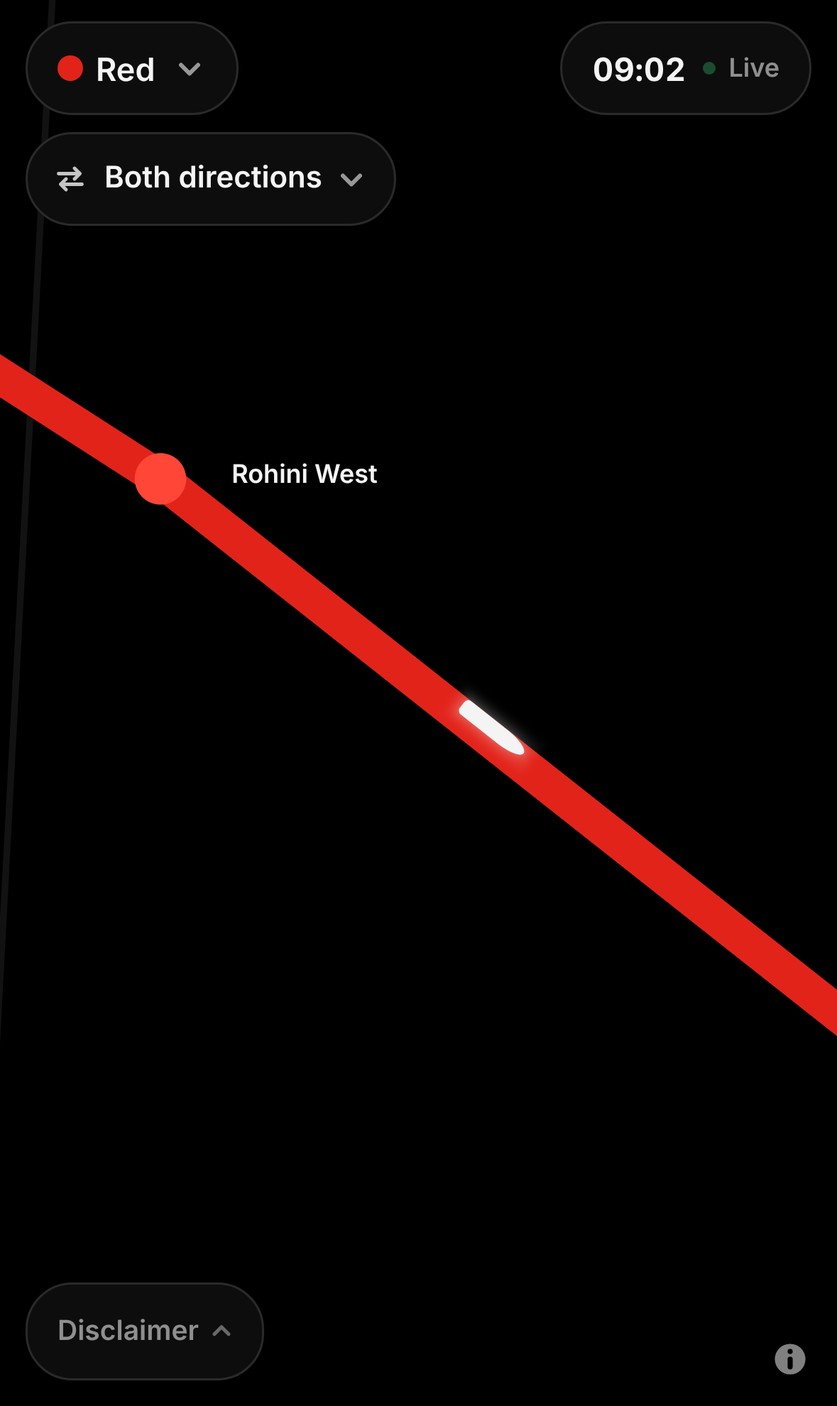
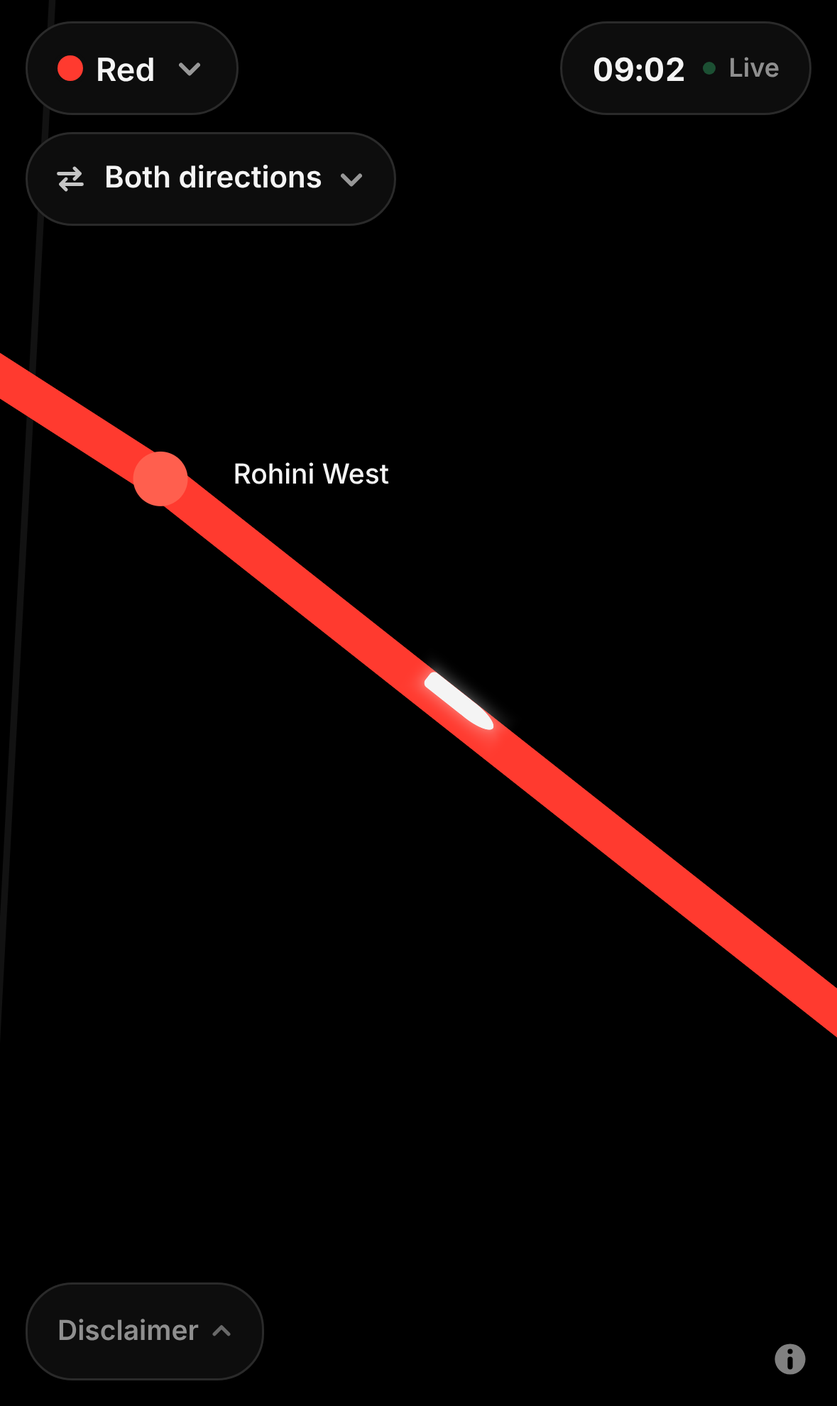
Maptro 1.4, the zoom update: vivid lines, sizes and detail that follow zoom
- Line colours pushed to full vividness for true black.
- Track width comes from zoom: a hairline for the whole city, a broad band close up; stations and trains scale with it.
- Zoomed out with several lines, trains hide and a quiet note says to zoom in or pick a line; ordinary stations fade out too.
- Station names are lighter (500/600), sized by zoom, and fade in.
- DESIGN.md and screenshots updated.

Claude-Session: https://claude.ai/code/session_01A61iRbreszi51h9E33xExZ

Changed region(s): [[0.0, 0.2465, 1.0, 0.7394], [0.0611, 0.0308, 0.0916, 0.0616]]

diff --git a/index.html b/index.html
@@ -82,6 +82,12 @@ button{font:inherit;color:inherit;background:none;border:0;padding:0;cursor:poin
 #pop.off{opacity:0;transform:translate(-50%,-8px) scale(.96);transition:opacity 420ms var(--settle),transform 420ms var(--settle)}
 body.dir #pop{top:calc(var(--sat) + 114px)}
 #pop .dots i{box-shadow:0 0 0 2px var(--surface)}
+/* zoomed out, trains hide; a quiet hint in the same place says how to bring them back */
+#nudge{position:fixed;z-index:3;top:calc(var(--sat) + 66px);left:50%;height:30px;border-radius:15px;padding:0 13px;display:flex;align-items:center;
+  font-size:13px;font-weight:500;color:var(--muted);white-space:nowrap;pointer-events:none;
+  transform:translate(-50%,0);transition:opacity 420ms var(--settle),transform 420ms var(--settle)}
+#nudge.off{opacity:0;transform:translate(-50%,-6px)}
+body.dir #nudge{top:calc(var(--sat) + 116px)}
 #clock .t{font-weight:650;letter-spacing:.2px}
 #clock .s{font-size:12px;font-weight:600;color:var(--muted);display:flex;align-items:center;gap:6px}
 #clock .s::before{content:"";width:6px;height:6px;border-radius:50%;background:var(--live);animation:pulse 2s ease-in-out infinite}
@@ -172,6 +178,7 @@ body.carded #disc{opacity:0;pointer-events:none}
   </span><select id="dsel" class="hx" aria-label="Direction"></select></span>
 </div>
 <div id="pop" class="panel off" aria-live="polite"><span class="dots" id="popd"></span><span id="popt"></span></div>
+<div id="nudge" class="panel off" aria-live="polite">Zoom in or pick a line to see trains</div>
 
 <div id="menu" class="panel" aria-label="Choose lines" hidden>
   <div class="mhead"><span>Lines</span><span class="ac"><span class="hw"><button id="all" class="press">All</button></span><span class="hw"><button id="none" class="press">None</button></span></span></div>
@@ -325,7 +332,10 @@ const DPR = () => Math.min(window.devicePixelRatio || 1, 3);
 const ORDER = ['RED','YELLOW','BLUE','GREEN','VIOLET','PINK','MAGENTA','GRAY','ORANGE/AIRPORT','AQUA','RAPID'];
 const NAMES = {RED:'Red',YELLOW:'Yellow',BLUE:'Blue',GREEN:'Green',VIOLET:'Violet',PINK:'Pink',MAGENTA:'Magenta',GRAY:'Grey','ORANGE/AIRPORT':'Airport Express',AQUA:'Aqua',RAPID:'Rapid Metro'};
 // Line colours, nudged brighter where DMRC's own read too dark on a night map.
-const SHOW = {BLUE:'#2f86f0',VIOLET:'#a05bd0',MAGENTA:'#e0329f',GRAY:'#a7adb5',RAPID:'#5aa0ec',GREEN:'#33b34f'};
+// Each line in its DMRC hue, pushed to full vividness so it glows on true black (1.4). Pink stays light and Magenta deep,
+// and Rapid Metro a paler sky blue than the Blue Line, so neighbours never read as one line.
+const SHOW = {RED:'#ff3a2f',YELLOW:'#ffd60a',BLUE:'#3388ff',GREEN:'#2fd45c',VIOLET:'#b25cff',PINK:'#ff6fbd',MAGENTA:'#f0179c',
+  GRAY:'#b9c0c9',AQUA:'#12e2f2','ORANGE/AIRPORT':'#ff8a12',RAPID:'#6cbcff'};
 const DEFAULT = ['ORANGE/AIRPORT'];
 const LINES_KEY = 'maptro-lines-v2'; // v2: the default became the Airport Express, so earlier saved picks start fresh
 const INK = [.957, .957, .957]; // --ink, the picked train
@@ -423,8 +433,8 @@ void main(){
 const PT_FS = `precision highp float;varying vec4 v_col;varying float v_kind,v_px,v_sz;varying vec2 v_dir;
 uniform float u_tw,u_gap,u_st,u_fade;
 void main(){vec2 p=vec2(gl_PointCoord.x*2.-1.,1.-gl_PointCoord.y*2.);float r=length(p)*v_px*.5;
-  if(v_kind>.5&&v_kind<1.5){gl_FragColor=vec4(v_col.rgb,1.)*clamp(u_st*.5-r+.5,0.,1.)*v_col.a;return;}
-  if(v_kind>2.5){gl_FragColor=vec4(v_col.rgb,1.)*clamp(u_st*.3*v_sz-r+.5,0.,1.)*v_col.a;return;}
+  if(v_kind>.5&&v_kind<1.5){gl_FragColor=vec4(v_col.rgb,1.)*clamp(u_st*.5-r+.5,0.,1.)*v_col.a*u_fade;return;}
+  if(v_kind>2.5){gl_FragColor=vec4(v_col.rgb,1.)*clamp(u_st*.3*v_sz-r+.5,0.,1.)*v_col.a*u_fade;return;}
   float d=r-u_tw*.85*v_sz;
   if(v_kind>1.5){float a=clamp(1.-abs(d-u_gap*2.5)/(u_gap*.9),0.,1.);gl_FragColor=vec4(1.)*a*v_col.a*u_fade;return;}
   float edge=(1.-max(abs(p.x),abs(p.y)))*v_px*.5,glow=.26*exp(-max(d,0.)/(u_tw*.38))*smoothstep(0.,u_tw*.9,edge);
@@ -479,18 +489,26 @@ function polyline(V, I, pts, rgba, fade) { // pts: [[x,y,f?]] in relative Mercat
   for (let i = 0; i < n - 1; i++) { const k = base + i * 2; I.push(k, k + 1, k + 2, k + 1, k + 3, k + 2); }
 }
 
-// One unit, u, the width of a train, sets everything (CSS px). The track is two trains wide with a gap of g between
-// them. A station is a dot that takes the whole track and a little more, so a train arriving disappears into it.
-const ICON_Z = 12.4; // zoomed in from here trains are drawn as trains; zoomed out, as dots. Never anything between.
+// Everything grows with zoom (1.4). The track's width is set by zoom from the table below: a hairline when the whole
+// city is on screen, a broad band close up. One unit, u, the width of a train, is the track's half: the track is two
+// trains wide with a gap of g between them. A station is a dot that takes the whole track and a little more, so a
+// train arriving disappears into it.
+const ICON_Z = 12.8; // zoomed in from here trains are drawn as trains; zoomed out, as dots. Never anything between.
+const TRAIN_Z = 11.2; // zoomed out past this, with more than one line chosen, only the track shows (DESIGN.md, Zoom)
+const MINOR_Z = [10.7, 11.3]; // with more than one line chosen, ordinary stations fade in over these zooms
+const TRACK_W = [[8.5, 1.5], [10, 2.3], [11, 3.3], [12, 5.6], [13, 8.8], [14, 13], [15, 18], [16.5, 28]]; // [zoom, px]
+const ramp = (x, a, b) => Math.max(0, Math.min(1, (x - a) / (b - a)));
 function sizes(z) {
-  const u = Math.max(3, Math.min(8, 2.6 + (z - 10) * 1.2)), g = Math.max(.75, u * .12);
-  const band = 2 * u + g, lane = (u + g) / 2, tl = u * 4.6, st = band + u * .9;
-  return { u, tw: u, tl, g, band, lane, rad: u * .3, st };
+  let band = TRACK_W[TRACK_W.length - 1][1];
+  for (let i = 1; i < TRACK_W.length; i++) { const [z0, w0] = TRACK_W[i - 1], [z1, w1] = TRACK_W[i]; if (z <= z1) { band = w0 + (w1 - w0) * ramp(z, z0, z1); break; } }
+  const u = band / 2.12, g = u * .12, lane = (u + g) / 2, tl = u * 4.6, st = band + Math.max(u * .9, 1.8);
+  // a train dot keeps a size you can see and tap even where the track is thin
+  return { u, tw: u, tl, g, band, lane, rad: u * .3, st, dot: Math.max(u, 3.2) };
 }
 // CSS px per metre on the map at zoom z (512 px world tiles; Delhi's latitude)
 const pxPerM = z => 512 * 2 ** z / (40075016.7 * Math.cos(28.6 * Math.PI / 180));
 function makeGpu() {
-  const g = { lineV: new Buf(Float32Array), lineI: new Buf(Uint16Array), stV: new Buf(Float32Array),
+  const g = { lineV: new Buf(Float32Array), lineI: new Buf(Uint16Array), stV: new Buf(Float32Array), stMinorV: new Buf(Float32Array), vis: 1, visT: 1,
     headV: new Buf(Float32Array), fxV: new Buf(Float32Array), occV: new Buf(Float32Array),
     trV: new Buf(Float32Array), trI: new Buf(Uint16Array), pickV: new Buf(Float32Array), pickI: new Buf(Uint16Array), icon: 0, iconT: 0, lastT: 0,
     staticDirty: true, gl: null };
@@ -506,7 +524,7 @@ function makeGpu() {
     g.line = prog(LINE_VS, LINE_FS, ['a_pos', 'a_prev', 'a_next', 'a_side', 'a_col']);
     g.pt = prog(PT_VS, PT_FS, ['a_pos', 'a_dir', 'a_col', 'a_size', 'a_kind']);
     g.tr = prog(TR_VS, TR_FS, ['a_pos', 'a_prev', 'a_next', 'a_side', 'a_x', 'a_len']);
-    g.b = {}; for (const k of ['lineV', 'lineI', 'stV', 'headV', 'fxV', 'occV', 'trV', 'trI', 'pickV', 'pickI']) g.b[k] = gl.createBuffer();
+    g.b = {}; for (const k of ['lineV', 'lineI', 'stV', 'stMinorV', 'headV', 'fxV', 'occV', 'trV', 'trI', 'pickV', 'pickI']) g.b[k] = gl.createBuffer();
     g.isGL2 = typeof WebGL2RenderingContext !== 'undefined' && gl instanceof WebGL2RenderingContext;
     g.vao = g.isGL2 ? null : gl.getExtension('OES_vertex_array_object');
     g.minmax = g.isGL2 ? gl.MAX : (gl.getExtension('EXT_blend_minmax') || {}).MAX_EXT;
@@ -528,7 +546,7 @@ function makeGpu() {
     const res = [gl.drawingBufferWidth, gl.drawingBufferHeight], dpr = view.dpr, z = view.zoom, S = sizes(z);
     const tw = S.u * dpr, tl = S.tl * dpr, trackW = S.band * dpr, off = S.lane * dpr;
     if (g.staticDirty) { upload(gl, gl.ARRAY_BUFFER, g.b.lineV, g.lineV.view(), gl.STATIC_DRAW); upload(gl, gl.ELEMENT_ARRAY_BUFFER, g.b.lineI, g.lineI.view(), gl.STATIC_DRAW);
-      upload(gl, gl.ARRAY_BUFFER, g.b.stV, g.stV.view(), gl.STATIC_DRAW); g.staticDirty = false; }
+      upload(gl, gl.ARRAY_BUFFER, g.b.stV, g.stV.view(), gl.STATIC_DRAW); upload(gl, gl.ARRAY_BUFFER, g.b.stMinorV, g.stMinorV.view(), gl.STATIC_DRAW); g.staticDirty = false; }
     gl.blendEquation(gl.FUNC_ADD); gl.blendFunc(gl.ONE, gl.ONE_MINUS_SRC_ALPHA);
     // track: the line's own colour, solid, one rail per direction
     const L = g.line; gl.useProgram(L.p); gl.uniformMatrix4fv(L.u.u_m, false, M); gl.uniform2fv(L.u.u_res, res);
@@ -542,7 +560,13 @@ function makeGpu() {
     if (z > ICON_Z + .1) g.iconT = 1; else if (z < ICON_Z - .1) g.iconT = 0;
     g.icon = RM.matches ? g.iconT : g.icon + Math.sign(g.iconT - g.icon) * Math.min(Math.abs(g.iconT - g.icon), dt / 200);
     const fade = g.icon * g.icon * (3 - 2 * g.icon);
-    const P = g.pt, T = g.tr, pts = (buf, data, scale, o, pad, kind) => { if (!data.n) return; gl.bindBuffer(gl.ARRAY_BUFFER, buf); if (data !== g.stV) gl.bufferData(gl.ARRAY_BUFFER, data.view(), gl.DYNAMIC_DRAW);
+    // Zoomed out with several lines, trains go and only the track shows; they fade back in 250 ms as you zoom in.
+    // With one line chosen they always show. A little give either side of TRAIN_Z stops a resting pinch flickering.
+    const one = sel.size === 1;
+    if (one || z > TRAIN_Z + .1) g.visT = 1; else if (z < TRAIN_Z - .1) g.visT = 0;
+    g.vis = RM.matches ? g.visT : g.vis + Math.sign(g.visT - g.vis) * Math.min(Math.abs(g.visT - g.vis), dt / 250);
+    const vis = g.vis * g.vis * (3 - 2 * g.vis), minorA = one ? 1 : ramp(z, MINOR_Z[0], MINOR_Z[1]), dotW = S.dot * dpr;
+    const P = g.pt, T = g.tr, pts = (buf, data, scale, o, pad, kind) => { if (!data.n) return; gl.bindBuffer(gl.ARRAY_BUFFER, buf); if (data !== g.stV && data !== g.stMinorV) gl.bufferData(gl.ARRAY_BUFFER, data.view(), gl.DYNAMIC_DRAW);
       bindAttrs(gl, PT_LAYOUT, 10); gl.uniform1f(P.u.u_scale, scale * dpr); gl.uniform1f(P.u.u_off, o); gl.uniform1f(P.u.u_pad, pad); gl.drawArrays(gl.POINTS, 0, data.n / 10); };
     const strip = (V, I, ring, a) => { if (!I.n || a <= 0) return; gl.useProgram(T.p); gl.uniformMatrix4fv(T.u.u_m, false, M); gl.uniform2fv(T.u.u_res, res);
       upload(gl, gl.ARRAY_BUFFER, ring ? g.b.pickV : g.b.trV, V.view(), gl.DYNAMIC_DRAW); upload(gl, gl.ELEMENT_ARRAY_BUFFER, ring ? g.b.pickI : g.b.trI, I.view(), gl.DYNAMIC_DRAW);
@@ -550,17 +574,18 @@ function makeGpu() {
       gl.uniform1f(T.u.u_rad, S.rad * dpr); gl.uniform1f(T.u.u_gap, S.g * dpr); gl.uniform1f(T.u.u_ring, ring ? 1 : 0); gl.uniform1f(T.u.u_a, a);
       gl.drawElements(gl.TRIANGLES, I.n, gl.UNSIGNED_SHORT, 0); unbind(gl, 6); };
     const ptSetup = () => { gl.useProgram(P.p); gl.uniformMatrix4fv(P.u.u_m, false, M); gl.uniform2fv(P.u.u_res, res);
-      gl.uniform1f(P.u.u_tl, tw * 1.7); gl.uniform1f(P.u.u_tw, tw); gl.uniform1f(P.u.u_gap, S.g * dpr); gl.uniform1f(P.u.u_st, S.st * dpr); };
+      gl.uniform1f(P.u.u_tl, dotW * 1.7); gl.uniform1f(P.u.u_tw, dotW); gl.uniform1f(P.u.u_gap, S.g * dpr); gl.uniform1f(P.u.u_st, S.st * dpr); };
     // trains first, then the station dots over them, so a train arriving slides in under its station's dot
-    strip(g.trV, g.trI, false, fade);
+    strip(g.trV, g.trI, false, fade * vis);
     ptSetup();
-    if (fade < 1) { gl.uniform1f(P.u.u_fade, 1 - fade); pts(g.b.headV, g.headV, 1, off, tw * 1.4); }
+    if (fade < 1 && vis > 0) { gl.uniform1f(P.u.u_fade, (1 - fade) * vis); pts(g.b.headV, g.headV, 1, off, dotW * 1.4); }
+    if (minorA > 0) { gl.uniform1f(P.u.u_fade, minorA); pts(g.b.stMinorV, g.stMinorV, S.st + 2, 0, 0); }
     gl.uniform1f(P.u.u_fade, 1);
     pts(g.b.stV, g.stV, S.st + 2, 0, 0);
-    pts(g.b.occV, g.occV, S.st + 2, 0, 0);
+    if (vis > 0) { gl.uniform1f(P.u.u_fade, vis); pts(g.b.occV, g.occV, S.st + 2, 0, 0); }
     // the selection outline, on top of everything
-    if (fade > 0) { unbind(gl, 5); strip(g.pickV, g.pickI, true, fade * (g.pickA || 1)); ptSetup(); }
-    if (fade < 1) { gl.uniform1f(P.u.u_fade, 1 - fade); pts(g.b.fxV, g.fxV, 1, off, 6 * dpr); gl.uniform1f(P.u.u_fade, 1); }
+    if (fade > 0 && vis > 0) { unbind(gl, 5); strip(g.pickV, g.pickI, true, fade * vis * (g.pickA || 1)); ptSetup(); }
+    if (fade < 1 && vis > 0) { gl.uniform1f(P.u.u_fade, (1 - fade) * vis); pts(g.b.fxV, g.fxV, 1, off, 6 * dpr); gl.uniform1f(P.u.u_fade, 1); }
     unbind(gl, 5);
     gl.bindBuffer(gl.ARRAY_BUFFER, null); gl.bindBuffer(gl.ELEMENT_ARRAY_BUFFER, null);
   };
@@ -570,7 +595,7 @@ function makeGpu() {
 /* ---------- scene building ---------- */
 let stations = [], labelList = [], stationByName = new Map(); // stations on selected lines, grouped by name
 function buildStatic() {
-  const g = gpu; g.lineV.reset(); g.lineI.reset(); g.stV.reset();
+  const g = gpu; g.lineV.reset(); g.lineI.reset(); g.stV.reset(); g.stMinorV.reset();
   const ids = new Set(R.map(r => r.id));
   for (const l of ORDER) {
     if (!sel.has(l)) continue;
@@ -591,15 +616,17 @@ function buildStatic() {
   });
   stations = [...byName.values()].filter(s => s.on.size); stationByName = byName;
   // one dot per station per line, on that line's own track; white at an interchange, as on Maptro's first map
+  // Interchanges and terminals always show; ordinary stations go when zoomed out (minor buffer, faded by zoom)
   for (const { s, r, d } of plat.values()) {
     const [x, y] = posAt(r, d), c = s.lines.size > 1 ? INK : tone[r.line].platform;
-    g.stV.push(x - ORIGIN[0], y - ORIGIN[1], 0, 0, c[0], c[1], c[2], 1, 1, 1);
+    (s.lines.size > 1 || s.term ? g.stV : g.stMinorV).push(x - ORIGIN[0], y - ORIGIN[1], 0, 0, c[0], c[1], c[2], 1, 1, 1);
   }
   for (const s of stations) s.ic = s.lines.size > 1;
   for (const s of stations) {
     const ic = s.lines.size > 1;
     s.pri = (s.term ? 2 : 0) + (ic ? 1 : 0);
-    s.minZ = s.term ? 9 : ic ? 10.3 : 11.6;
+    // names come in by importance as you zoom; with one line chosen its ordinary stations are named sooner
+    s.minZ = s.term ? 9.4 : ic ? 10.6 : sel.size === 1 ? 10.4 : 11.8;
   }
   labelList = stations.slice().sort((a, b) => b.pri - a.pri);
   g.staticDirty = true; labelsDirty = true;
@@ -760,11 +787,12 @@ const lc = $('labels'), lx = lc.getContext('2d'), widths = new Map();
 function drawLabels() {
   const W = innerWidth, H = innerHeight, dpr = DPR();
   if (lc.width !== Math.round(W * dpr) || lc.height !== Math.round(H * dpr)) { lc.width = Math.round(W * dpr); lc.height = Math.round(H * dpr); }
-  lx.setTransform(dpr, 0, 0, dpr, 0, 0); lx.clearRect(0, 0, W, H);
+  lx.setTransform(dpr, 0, 0, dpr, 0, 0); lx.globalAlpha = 1; lx.clearRect(0, 0, W, H);
   const z = cam.zoom(), placed = [], r0 = sizes(z).st / 2 + 5;
   const hit = b => placed.some(q => b[0] < q[2] && b[2] > q[0] && b[1] < q[3] && b[3] > q[1]);
   // keep labels clear of the top controls
   placed.push([0, 0, W, ($('dirw').classList.contains('off') ? $('pick') : $('dir')).getBoundingClientRect().bottom + 4]);
+  if (!$('nudge').classList.contains('off')) { const n = $('nudge').getBoundingClientRect(); placed.push([n.left - 4, n.top - 4, n.right + 4, n.bottom + 4]); }
   lx.lineJoin = 'round'; lx.textBaseline = 'middle';
   // a label may not cover another interchange or terminal, so it can't read as that station's name
   const dots = labelList.map(s => cam.project(s.m[0], s.m[1]));
@@ -775,16 +803,19 @@ function drawLabels() {
     if (z < s.minZ) continue;
     const [x, y] = dots[li];
     if (x < 0 || y < 0 || x > W || y > H) continue;
-    const big = s.pri >= 2, font = `${big ? 700 : 600} ${big ? 13 : 12}px -apple-system,BlinkMacSystemFont,"SF Pro Text",system-ui,sans-serif`;
+    // Names grow with zoom, 11px far out to 13px close in (terminals 1px more), in a light weight; each fades in over
+    // half a zoom level from where it first fits, instead of popping on.
+    const big = s.pri >= 2, fs = Math.round((Math.max(11, Math.min(13, 11 + (z - 10.5) * .5)) + (big ? 1 : 0)) * 2) / 2;
+    const font = `${big ? 600 : 500} ${fs}px -apple-system,BlinkMacSystemFont,"SF Pro Text",system-ui,sans-serif`;
     lx.font = font; const key = font + s.name; let w = widths.get(key); if (w == null) widths.set(key, w = lx.measureText(s.name).width);
-    const h = big ? 16 : 15;
+    const h = fs + 3;
     const cands = [[x + r0, y - h / 2], [x - r0 - w, y - h / 2], [x - w / 2, y - r0 - h], [x - w / 2, y + r0]];
     for (const [bx, by] of cands) {
       const box = [bx - 2, by - 1, bx + w + 2, by + h + 1];
       if (box[0] < 2 || box[2] > W - 2 || hit(box) || coversDot(box, li)) continue;
       placed.push(box);
       // plain text, no halo: every name in --ink; terminals stand out by weight and size alone
-      lx.fillStyle = '#f4f4f4'; lx.fillText(s.name, bx, by + h / 2);
+      lx.globalAlpha = .4 + .6 * ramp(z, s.minZ, s.minZ + .5); lx.fillStyle = '#f4f4f4'; lx.fillText(s.name, bx, by + h / 2);
       break;
     }
   }
@@ -877,6 +908,9 @@ function paintCounts() {
   $('pick').setAttribute('aria-label', `${$('plbl').textContent}, ${tot} trains active. Choose lines`);
   // nothing running on the chosen lines: offer to skip ahead
   const empty = sel.size > 0 && tot === 0 && !picked;
+  // trains hidden by zoom: the nudge, unless the count note, the picker or a card is already saying something
+  const nudge = !gpu.visT && tot > 0 && !picked && $('menu').hidden && $('pop').classList.contains('off');
+  if (nudge === $('nudge').classList.contains('off')) { $('nudge').classList.toggle('off', !nudge); labelsDirty = true; }
   if (empty !== !$('toast').hidden) {
     $('toast').hidden = !empty;
     if (empty) $('toast').innerHTML = `<b>The trains are asleep</b><span>Service runs from about 5:30 to 23:30.</span><br><span class="hw"><button class="btn act press" id="ff">Skip to 8 am</button></span>`, haptic($('ff')), $('ff').onclick = () => { startSim(8 * 3600, 10); popPending = true; };
@@ -887,8 +921,9 @@ function paintCounts() {
 function tap(x, y) {
   if (!$('menu').hidden) return openMenu(false);
   let best = null, bd = 26;
-  for (const o of trains) { const [a, b] = cam.project(o.pos[0], o.pos[1]), d = Math.hypot(a - x, b - y); if (d < bd) { bd = d; best = { kind: 'train', r: o.r, s0: o.s0, o }; } }
-  if (!best) { bd = 20; for (const s of stations) { const [a, b] = cam.project(s.m[0], s.m[1]), d = Math.hypot(a - x, b - y); if (d < bd) { bd = d; best = { kind: 'station', s }; } } }
+  if (gpu.visT) for (const o of trains) { const [a, b] = cam.project(o.pos[0], o.pos[1]), d = Math.hypot(a - x, b - y); if (d < bd) { bd = d; best = { kind: 'train', r: o.r, s0: o.s0, o }; } }
+  const minor = sel.size === 1 || cam.zoom() > MINOR_Z[0] + .3; // a hidden station can't be tapped
+  if (!best) { bd = 20; for (const s of stations) { if (!minor && !s.ic && !s.term) continue; const [a, b] = cam.project(s.m[0], s.m[1]), d = Math.hypot(a - x, b - y); if (d < bd) { bd = d; best = { kind: 'station', s }; } } }
   if (!best) return closeCard();
   if (best.kind !== 'train') buzz();
   picked = best; setFollow(false); buildCard(); paintCard(); $('card').hidden = false; document.body.classList.add('carded');

diff --git a/DESIGN.md b/DESIGN.md
@@ -41,7 +41,7 @@ Rules:
 - Resting layers step up from black: page `--bg`, panels `--surface` with a 1px `--line` hairline, buttons and pressed rows `--surface2`.
 - State colours are few and small: the green dot beside "Live", amber when the clock runs fast, a white fill when Follow is on.
 - The primary action ("Skip to 8 am", "Tap to reload", Follow when on) is white with black text.
-- Line colours are DMRC's own, nudged brighter where they read too dark on black (`SHOW` in `index.html`). They are drawn flat: no gradients, glow, outlines or added light.
+- Line colours are DMRC's own hues, pushed to full vividness for true black in 1.4 (`SHOW` in `index.html`): Pink stays light and Magenta deep, and Rapid Metro is a paler sky blue than the Blue Line, so neighbours never read as one line. They are drawn flat: no gradients, glow, outlines or added light.
 - **Full-strength colour.** The track is each line's colour at full strength (`TONES.track` = 1), as bright as the very first Maptro; a toned-down track was tried in 1.2 and read as dull. Station dots are a step lighter (`TONES.platform` = 1.2, OKLab lightness, hue kept); interchange dots are `--ink`.
 - Trains are `--ink`, one solid colour, with a faint glow around them. They are the brightest thing on the map and the same on every line; the track under a train says which line it is.
 
@@ -72,7 +72,7 @@ The system font (`-apple-system`, SF Pro on iPhone). No web font loads: it is na
 | Minutes to next stop | 22px | 700, tabular numerals |
 | Card subtitle, departures | 14px | 400-500 |
 | Small notes ("Scheduled", Disclaimer) | 13px | 600 |
-| Station labels on the map | 12px (13px terminals) | 600 / 700, `--ink`, no halo |
+| Station labels on the map | 11px zoomed out to 13px close in (terminals 1px more) | 500 / 600, `--ink`, no halo |
 
 Numbers that change (the clock, train count, minutes) use tabular numerals so they don't jitter.
 
@@ -103,23 +103,30 @@ Shown under the line picker when exactly one line is chosen. It is a native `<se
 "19 trains active", with the line's dot: a small pill that drops in under the controls for 2.6 seconds when the page opens, the lines change (once the picker closes) or the direction changes. It replaced the number that sat in the line picker, which read as a static label. Not shown when no train is running (the quiet-hours sheet says that).
 
 ### Trains, track and stations
-Flat fills, round geometry, no outlines; the trains' faint glow is the one exception. Every size comes from one unit, `u`, a train's width (`sizes()` in `index.html`): 3px zoomed out, growing to 8px.
+Flat fills, round geometry, no outlines; the trains' faint glow is the one exception. Everything grows with zoom (1.4). The track's width comes from zoom (`TRACK_W` in `index.html`): 1.5px with all of Delhi on screen, 5.6px at zoom 12, 18px at 15 and 28px at the closest. Every other size comes from one unit, `u`, a train's width, which is the track's width / 2.12 (`sizes()`).
 
 | Part | Size |
 |---|---|
 | Track | `2u + g` (`g = .12u`): exactly two trains, one per direction, in the line's full colour |
-| Station | a dot `2u + g + .9u` across, a step lighter than its line; white at an interchange |
+| Station | a dot `2u + g` + `max(.9u, 1.8px)` across, a step lighter than its line; white at an interchange |
 | Train, zoomed in | a bullet `u` wide and `4.6u` long, solid `--ink`, faint glow |
-| Train, zoomed out | a dot `1.7u` across, solid `--ink`, faint glow |
+| Train, zoomed out | a dot `1.7 × max(u, 3.2px)` across, solid `--ink`, faint glow, so it stays visible and tappable on a thin track |
 
-- **Dot or train, never in between.** Trains are dots below zoom 12.4 (`ICON_Z`) and trains above it, with 0.1 of give either side so a pinch resting near it doesn't flicker. Crossing it cross-fades the two in 200 ms: only opacity changes, never the shape. (1.2 blended the shapes by zoom, which left a "rugby ball" in between.)
+### Zoom: show less as you pull back
+The further out, the less there is: a whole-city view is the network's shape, and detail arrives as you zoom in.
+
+- **Trains** hide below zoom 11.2 (`TRAIN_Z`, with 0.1 of give either side) when more than one line is chosen, fading out and back in over 250 ms. Then only the track shows, and a quiet note, "Zoom in or pick a line to see trains", sits where the count note goes (muted text on a small panel; it waits while the count note, the line picker or a card is showing). With one line chosen, its trains always show: one line is never too busy.
+- **Stations:** interchanges and terminals always show. Ordinary stations fade in between zoom 10.7 and 11.3 (`MINOR_Z`), or always with one line chosen. A station that isn't shown can't be tapped.
+- **Names** come in by importance: terminals from zoom 9.4, interchanges from 10.6, the rest from 11.8 (10.4 with one line chosen). Each fades up over half a zoom level from where it first appears, rather than popping on.
+
+- **Dot or train, never in between.** Trains are dots below zoom 12.8 (`ICON_Z`) and trains above it, with 0.1 of give either side so a pinch resting near it doesn't flicker. Crossing it cross-fades the two in 200 ms: only opacity changes, never the shape. (1.2 blended the shapes by zoom, which left a "rugby ball" in between.)
 - **Trains bend with the track.** A zoomed-in train is not a picture turned to face its heading. It is a ribbon laid along the track's own points from its tail to its nose, rebuilt every frame and drawn on the GPU, so through a bend every part of the train follows the curve. The bullet shape is worked out per pixel along and across that ribbon. (A rigid sprite has to pick one angle, so in a bend it cut the corner and swung round late.)
 - **Trains merge into stations.** Station dots are drawn over the trains. Arriving, a train's nose stops at the station's centre and its tail closes up behind it, so it slides into the dot; while it waits, its light sits in the dot as a white core (in the line's colour at an interchange), growing as the train goes in and shrinking as it comes out. Leaving is the reverse. Zoomed out, the train dot simply slides under the station dot.
 - Trains run on the left side of the track, as Delhi's do. The picked train gets a white outline, `2.5g` out, that pulses.
 - Real station footprints were considered and not used: most of Delhi's stations are underground and have no footprint, and the elevated ones are a few pixels across until zoom 15.
 
 ### Station names
-Plain text in `--ink`, no halo or shadow (it read as a comic). Terminals stand out by weight and size alone (13px 700 against 12px 600), never by colour. Names never overlap each other or another interchange or terminal dot.
+Plain text in `--ink`, no halo or shadow (it read as a comic), in a light weight (500; 1.3's 600/700 read too bold). Size follows zoom, 11px to 13px. Terminals stand out by weight and size alone (600 and 1px larger), never by colour. Names never overlap each other or another interchange or terminal dot.
 
 ### Line picker
 A dropdown that unfolds from the pill. Header "Lines" with All and None. One row per line: a ring in the line colour that fills with a tick when chosen, and the line's name. Each row is a real `switch` checkbox stretched over the row, so the tap is native and gives the haptic tick. Tapping outside closes it, and the map then fits the chosen lines.
@@ -175,7 +182,7 @@ A native `<details>` pill at the bottom left. Open, it says the project is perso
 ## 8. Copy
 
 - Short, plain, warm. Sentence case, no all-caps labels. One line wherever possible.
-- Words in use: "Lines", "All", "None", "Live", "Both directions", "To …", "19 trains active", "Follow", "Next stop", "At", "to …", "Scheduled", "Estimated", "Disclaimer", "The trains are asleep", "Skip to 8 am", "No more trains today.", "Tap to reload".
+- Words in use: "Lines", "All", "None", "Live", "Both directions", "To …", "19 trains active", "Zoom in or pick a line to see trains", "Follow", "Next stop", "At", "to …", "Scheduled", "Estimated", "Disclaimer", "The trains are asleep", "Skip to 8 am", "No more trains today.", "Tap to reload".
 - Never call a position live or real-time.
 
 ---
